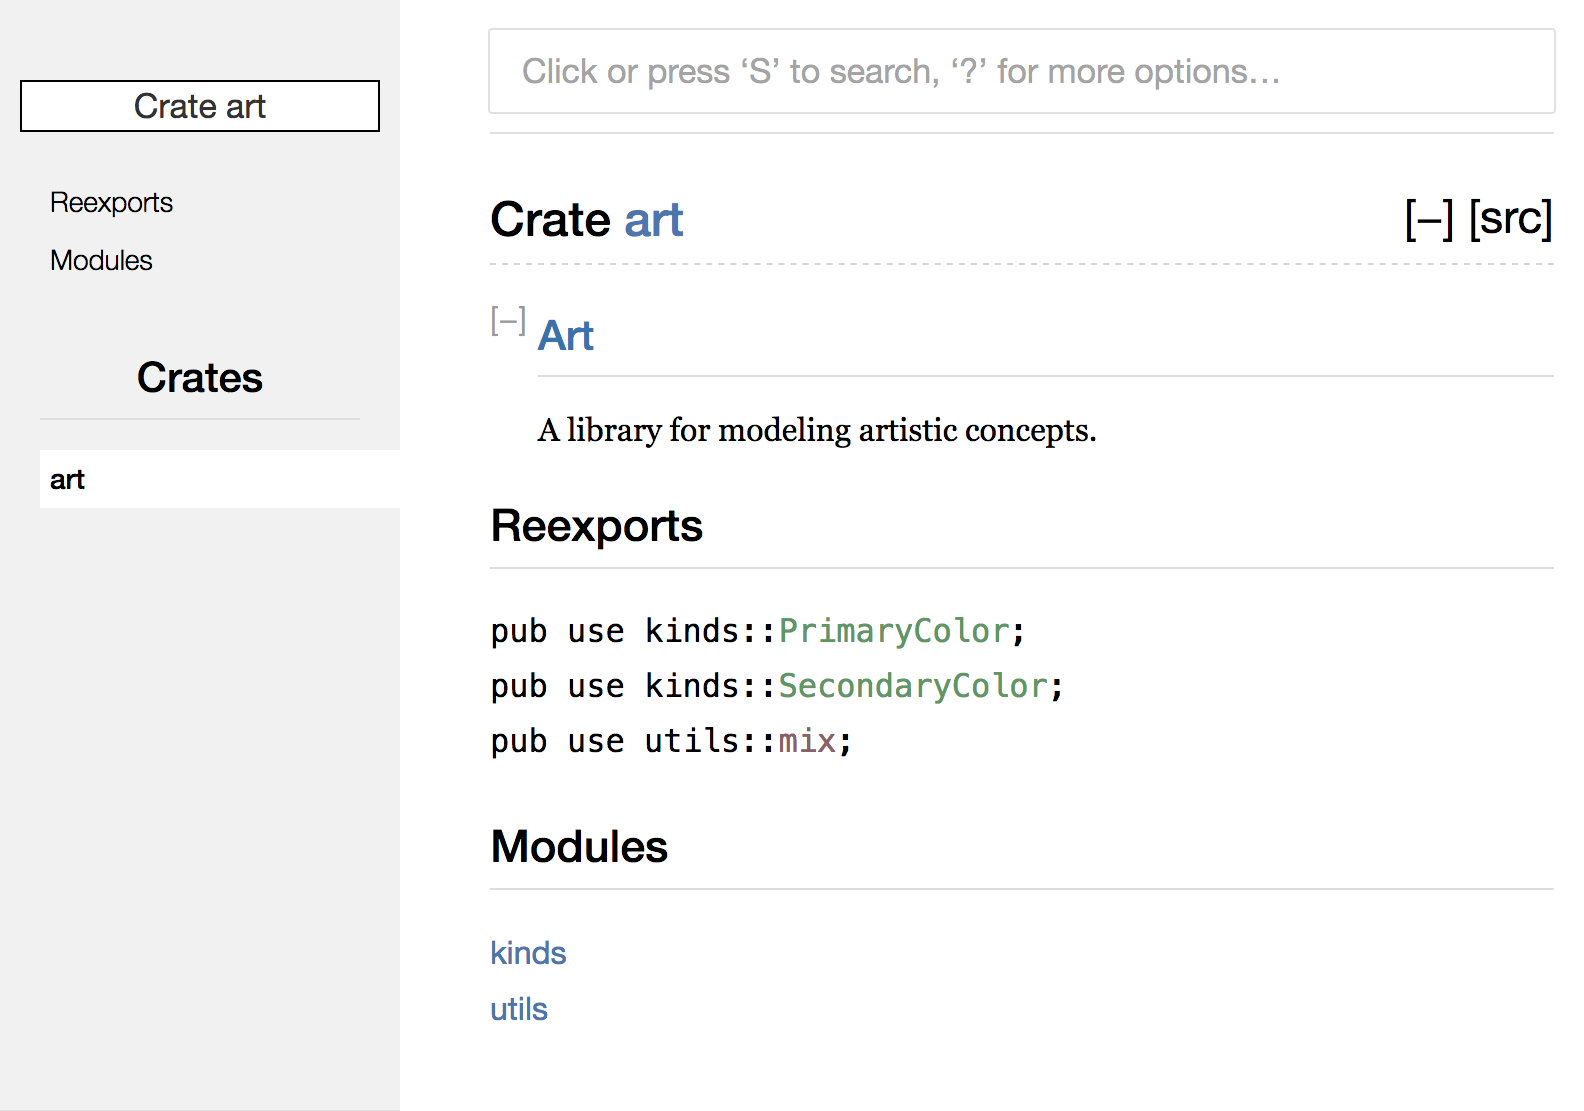
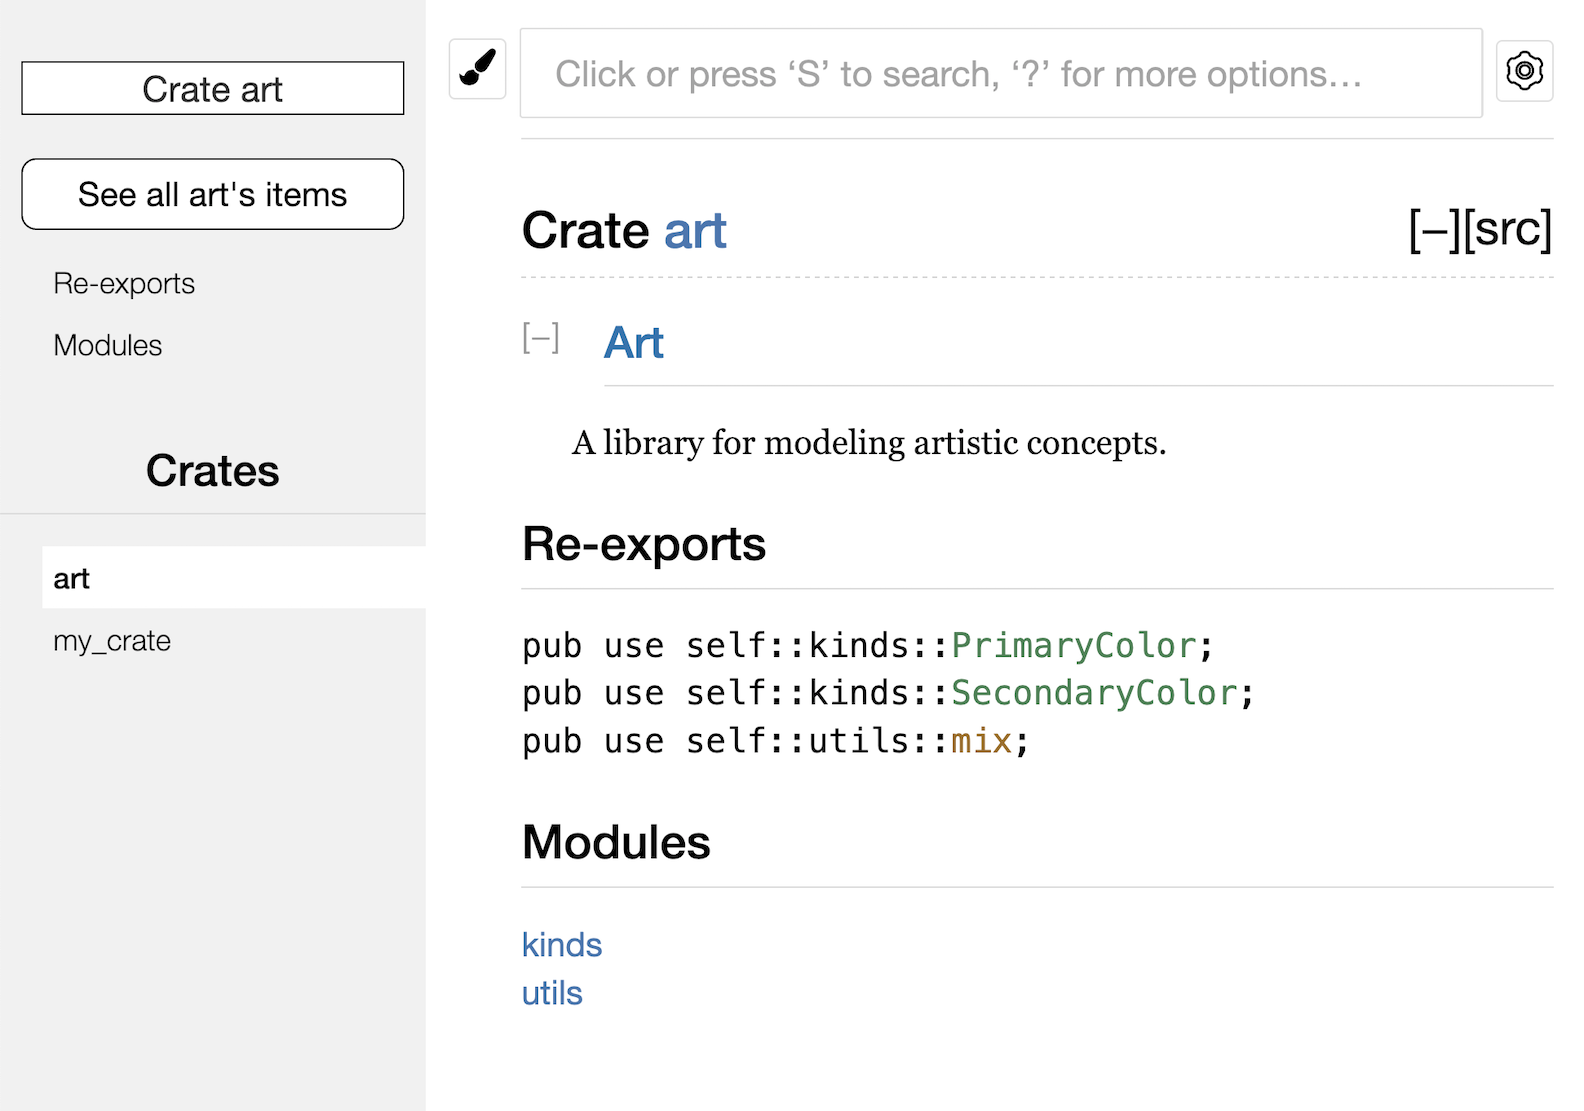
Add self to pub uses and update docs screenshot
Fixes #1637.

diff --git a/src/ch14-02-publishing-to-crates-io.md b/src/ch14-02-publishing-to-crates-io.md
@@ -279,9 +279,9 @@ items at the top level, as shown in Listing 14-5:
 //!
 //! A library for modeling artistic concepts.
 
-pub use kinds::PrimaryColor;
-pub use kinds::SecondaryColor;
-pub use utils::mix;
+pub use self::kinds::PrimaryColor;
+pub use self::kinds::SecondaryColor;
+pub use self::utils::mix;
 
 pub mod kinds {
     // --snip--
